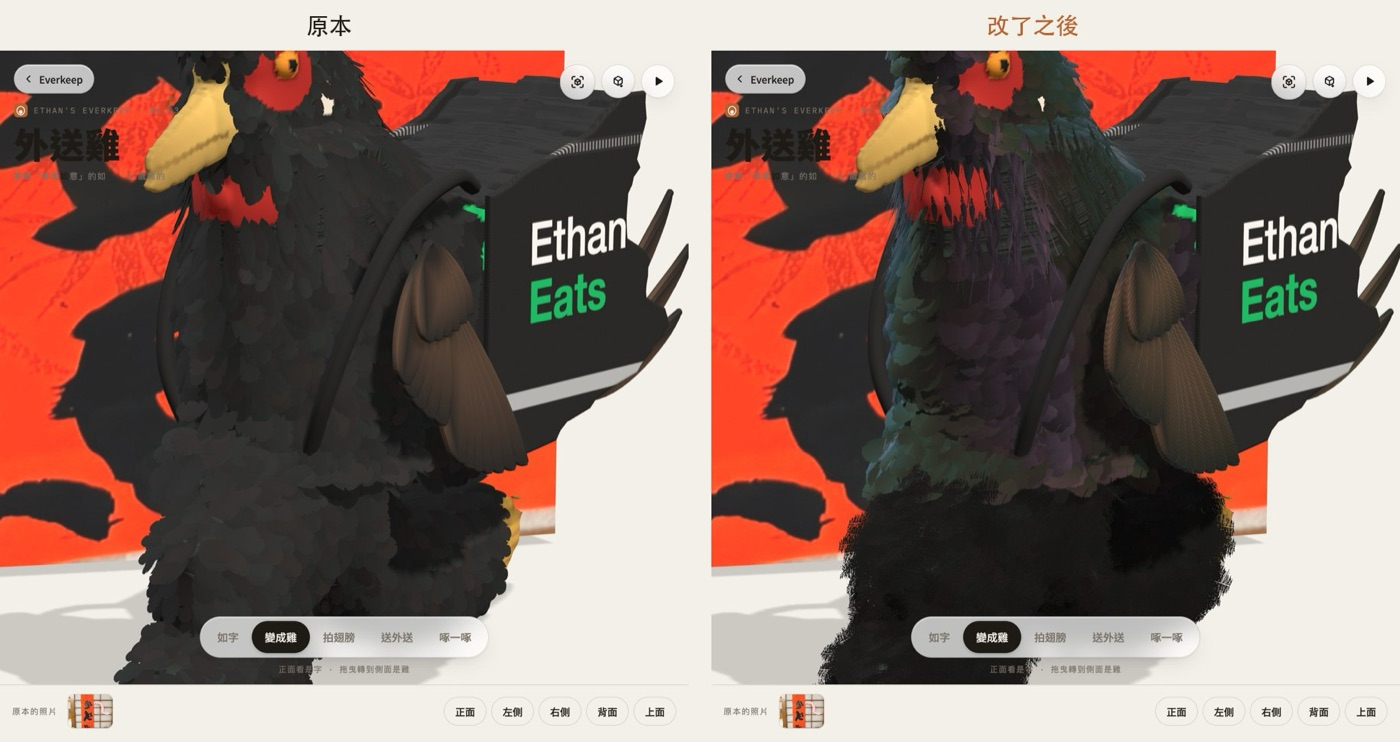
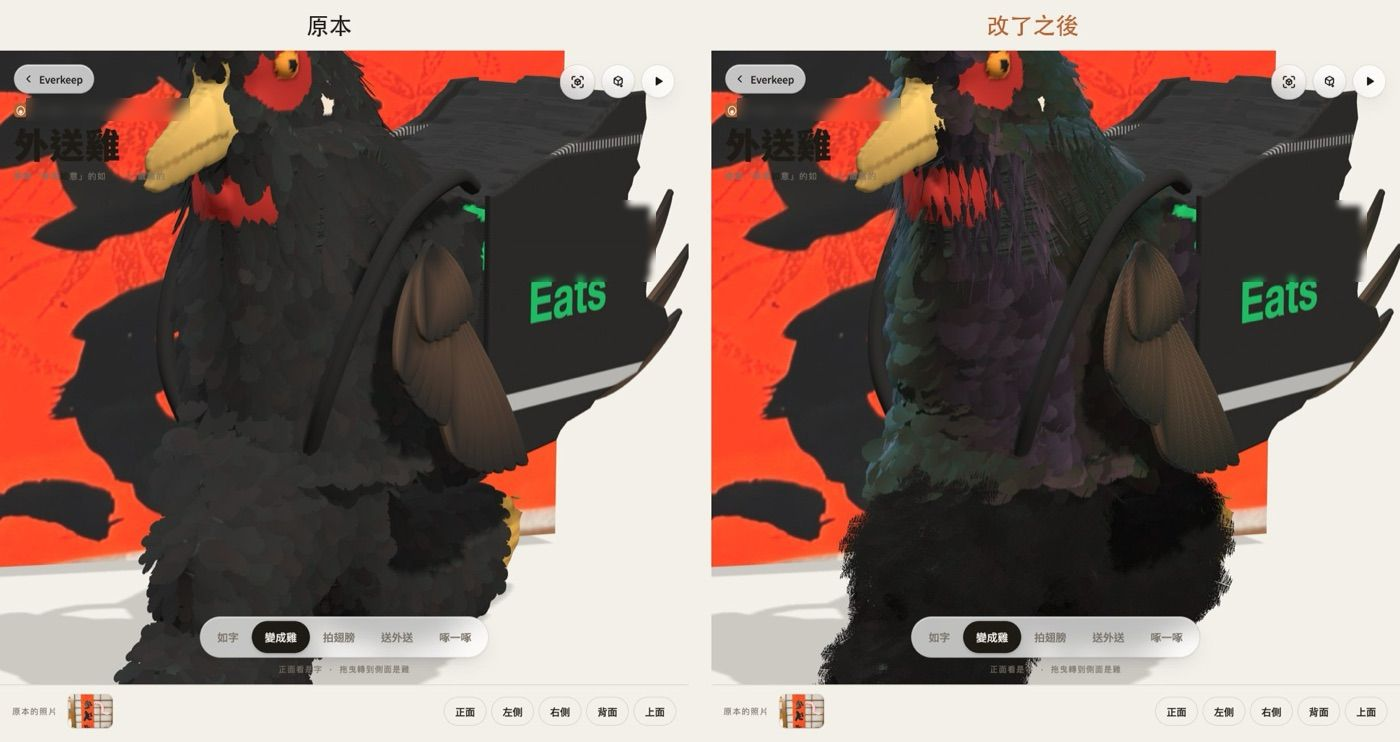
Everkeep 產品案例不寫具體人名：文字改成「小朋友」，截圖裡的名字遮掉
- 開頭、策略、決策 02 和作品集卡片的名字改成「小朋友」（英文 a child）
- 截圖：標題改成「小朋友的世界」、展品牌和作品頁標籤去掉名字、外送袋上的名字蓋掉、小標籤模糊
- 介紹影片的字幕和畫面有名字，開頭改放小島截圖；封面重拍

diff --git a/everkeep/case-study/index.html b/everkeep/case-study/index.html
@@ -6,7 +6,7 @@
 <link rel="canonical" href="https://aronlab.dev/everkeep/case-study/">
 <script>
   // 2026-11-14 Everkeep 產品案例，照 OneStroke 的做法放在 Aron Lab 底下（aronlab.dev/everkeep/case-study/）。
-  // 介紹影片直接用 Aron Lab 宣傳素材那支（assets/media/everkeep/），不另外放一份。
+  // 2026-11-14 Aron：案例裡不寫具體的人名，一律寫「小朋友」。截圖裡的名字已遮掉；介紹影片的字幕和畫面有名字，所以開頭改放小島截圖。
   // 同一份網站也部署在 GitHub Pages；從 north7.github.io 進來的訪客轉到正式網域，路徑保留
   if (location.hostname === 'north7.github.io') location.replace('https://aronlab.dev' + location.pathname + location.search + location.hash);
 </script>
@@ -270,7 +270,7 @@ td.res.no { color: var(--muted); font-family: var(--body); font-weight: 500; }
   <div class="txt">
     <div class="eyebrow">Case study · Everkeep</div>
     <h1 id="t">把孩子會壞掉的手作，留成一個<em>會長大的世界</em></h1>
-    <p class="lede">Ethan 4 到 6 歲做的黏土、陶土、春聯和紙火雞，會裂、會褪色、會被拆掉。我把它們照實物重建成可以轉、會動的 3D，放進一座小島和一間展覽室：孩子在島上玩，家人在展覽室收藏、分享。第一版只服務一個家庭，用來定下品質標準和體驗，之後才決定怎麼讓每個孩子上傳自己的作品。</p>
+    <p class="lede">家裡小朋友 4 到 6 歲做的黏土、陶土、春聯和紙火雞，會裂、會褪色、會被拆掉。我把它們照實物重建成可以轉、會動的 3D，放進一座小島和一間展覽室：孩子在島上玩，家人在展覽室收藏、分享。第一版只服務一個家庭，用來定下品質標準和體驗，之後才決定怎麼讓每個孩子上傳自己的作品。</p>
     <dl class="meta">
       <div><dt>角色</dt><dd>產品負責人：願景、策略、體驗與品質標準</dd></div>
       <div><dt>階段</dt><dd>已上線，單一家庭版本，7 件作品</dd></div>
@@ -280,9 +280,8 @@ td.res.no { color: var(--muted); font-family: var(--body); font-weight: 500; }
     <div class="cta"><a class="btn pri" href="https://everkeep.aronlab.dev/" target="_blank" rel="noopener">打開 Everkeep <span aria-hidden="true">↗</span></a></div>
   </div>
   <figure class="hv">
-    <div class="vwrap"><video id="heroVid" src="/assets/media/everkeep/intro.mp4" poster="/assets/media/everkeep/intro-poster.jpg" autoplay muted loop playsinline preload="metadata" aria-label="83 秒的產品介紹影片：照片變成 3D、小島、春聯上的字變成雞、天氣和節日、手機實際操作"></video>
-      <button class="snd" id="snd" type="button" aria-pressed="false"><svg viewBox="0 0 24 24" fill="none" stroke="currentColor" stroke-width="2" stroke-linecap="round" stroke-linejoin="round" aria-hidden="true"><path d="M11 5 6 9H3v6h3l5 4V5z"/><path class="w" d="M15.5 8.5a5 5 0 0 1 0 7M18.5 5.5a9 9 0 0 1 0 13"/></svg><span>開聲音</span></button></div>
-    <figcaption>介紹影片 83 秒，配樂是程式現場合成的音樂盒。</figcaption>
+    <div class="vwrap" style="aspect-ratio: 390 / 844"><img src="img/island.jpg" alt="小島：七件作品住在島上，旁邊是貼著春聯的小木屋" width="780" height="1688" style="width:100%;height:100%;object-fit:cover;display:block;border:0;border-radius:0"></div>
+    <figcaption>小島，手機上的實際畫面。</figcaption>
   </figure>
 </section>
 
@@ -336,7 +335,7 @@ td.res.no { color: var(--muted); font-family: var(--body); font-weight: 500; }
   <h2 id="h-strategy">先把<em>一個家庭</em>做到位，再談每個孩子</h2>
   <p>最終的目標是讓每個孩子上傳照片，就長出自己的世界。但在自動化之前，要先知道「好」長什麼樣子。我把路線拆成三段，每一段只回答一個問題，前一段的答案是後一段的規格。</p>
   <div class="road">
-    <div class="stage now"><div class="k">01 · 現在 <span class="pill">已上線</span></div><h3>Ethan's Everkeep</h3>
+    <div class="stage now"><div class="k">01 · 現在 <span class="pill">已上線</span></div><h3>第一個家庭的 Everkeep</h3>
       <dl><dt>問題</dt><dd>要做到什麼程度，家人才會說「這就是他做的那個」？</dd>
         <dt>做法</dt><dd>逐件照照片重建，把每一件做到最高標準，上線給家人用</dd>
         <dt>產出</dt><dd>品質標準、重建方法論、新增作品的固定流程、拍照指南</dd></dl></div>
@@ -399,7 +398,7 @@ td.res.no { color: var(--muted); font-family: var(--body); font-weight: 500; }
       <dt>決定</dt><dd>小島和展覽室都要，分成兩個畫面：小島給孩子，展覽室給收藏；在小島點作品，可以直接去它在展覽室的展台。分享連結預設開在展覽室。小星球留作品牌形象。</dd>
       <dt>結果</dt><dd class="out">一個產品同時服務兩種節奏，不用為了其中一邊犧牲另一邊。</dd></dl></article>
     <article class="dec"><div class="when">決策 02<h3>孩子的想像要怎麼做出來</h3></div><dl>
-      <dt>情境</dt><dd>Ethan 4 歲寫了一張春聯「事事如意」，家人覺得那個「如」字像一隻背著外送箱的雞。</dd>
+      <dt>情境</dt><dd>小朋友 4 歲寫了一張春聯「事事如意」，家人覺得那個「如」字像一隻背著外送箱的雞。</dd>
       <dt>決定</dt><dd>剪影必須和字一模一樣：平貼在春聯上就是字，按「出門」才鼓起來、長出羽毛、跳下紙。腳就用字原本的兩筆，不另外加一雙真的雞腳。春聯貼在島上小木屋的門上。</dd>
       <dt>結果</dt><dd class="out">這成了整個產品最讓人記得的一刻，也是介紹影片的主場景。從此的原則：孩子的想像就是內容，不是我們重新詮釋的素材。</dd></dl></article>
     <article class="dec"><div class="when">決策 03<h3>照片自動重建能不能直接用</h3></div><dl>
@@ -458,7 +457,7 @@ td.res.no { color: var(--muted); font-family: var(--body); font-weight: 500; }
 <section id="product" aria-labelledby="h-product">
   <div class="eyebrow">Product</div>
   <h2 id="h-product">做出來的產品</h2>
-  <p class="lede">以下都是手機上的實際畫面。</p>
+  <p class="lede">以下都是手機上的實際畫面，畫面裡的名字已經遮掉。</p>
   <div class="tour">
     <div class="tg">
       <div class="tgh"><span class="tn">01</span><div><h3>小島、展覽室、作品頁</h3><p class="muted">底部一條控制列切換兩個畫面；選了作品，控制列變成它的動作列。展覽室照年齡排，上方是成長時間軸。</p></div></div>
@@ -523,7 +522,7 @@ td.res.no { color: var(--muted); font-family: var(--body); font-weight: 500; }
     <li>找幾個家庭試拍，看一般家長照指南拍出可用素材的比例</li>
     <li>開放給其他家庭之前，先把孩子的照片、名字要怎麼保存和公開想清楚</li>
   </ul>
-  <div class="close"><div class="brand"><svg aria-hidden="true"><use href="#logo"/></svg><span>Everkeep</span></div><p class="muted">孩子做的東西，留下來，也活起來。</p><p class="muted">Aron · 產品負責人。本頁畫面都是產品實際截圖；線上版本在 everkeep.aronlab.dev。</p></div>
+  <div class="close"><div class="brand"><svg aria-hidden="true"><use href="#logo"/></svg><span>Everkeep</span></div><p class="muted">孩子做的東西，留下來，也活起來。</p><p class="muted">Aron · 產品負責人。本頁畫面都是產品實際截圖（名字已遮掉）；線上版本在 everkeep.aronlab.dev。</p></div>
 </section>
 
 </main>
@@ -538,18 +537,6 @@ td.res.no { color: var(--muted); font-family: var(--body); font-weight: 500; }
 </div>
 
 <script>
-(() => {   // 主視覺影片：靜音自動播放；「開聲音」從頭播並打開聲音，再按一次靜音
-  const v = document.getElementById("heroVid"), b = document.getElementById("snd");
-  if (!v || !b) return;
-  const lab = b.querySelector("span");
-  const sync = () => { const on = !v.muted && !v.paused; b.setAttribute("aria-pressed", on); lab.textContent = on ? "靜音" : "開聲音"; };
-  b.addEventListener("click", () => {
-    if (v.muted) { v.muted = false; v.currentTime = 0; v.play().catch(() => {}); } else { v.muted = true; }
-    sync();
-  });
-  if (matchMedia("(prefers-reduced-motion: reduce)").matches) { v.removeAttribute("autoplay"); v.pause(); }
-})();
-
 (() => {   // 目錄：目前章節標一條陶土橘；手機版右下角圓環顯示讀到哪
   const links = [...document.querySelectorAll("nav.toc a[href^='#']")];
   const secs = links.map(a => document.querySelector(a.getAttribute("href")));

diff --git a/data/lab.js b/data/lab.js
@@ -504,7 +504,7 @@ window.LAB = {
       id: 'everkeep-case', product: 'everkeep',
       title: '把孩子會壞掉的手作，留成一個會長大的世界',
       sub: 'Everkeep 產品案例',
-      desc: '黏土會裂、紙會褪色、作品會被拆掉。我把 Ethan 的手作照實物重建成可以轉、會動的 3D，先把一個家庭做到位、定下品質標準，再決定怎麼讓每個孩子上傳自己的作品。',
+      desc: '黏土會裂、紙會褪色、作品會被拆掉。我把小朋友的手作照實物重建成可以轉、會動的 3D，先把一個家庭做到位、定下品質標準，再決定怎麼讓每個孩子上傳自己的作品。',
       meta: [['角色', '產品負責人（願景、策略、體驗與品質標準）'], ['階段', '已上線 · 單一家庭版本 · 7 件作品'], ['形態', '手機網頁、3D、AR、3D 列印檔']],
       url: 'https://aronlab.dev/everkeep/case-study/',
       cover: 'assets/covers/everkeep-case.jpg',
@@ -515,7 +515,7 @@ window.LAB = {
       en: {
         title: "Keeping a child's fragile crafts as a world that grows",
         sub: 'Everkeep case study',
-        desc: "Clay cracks, paper fades and crafts get taken apart. I rebuilt Ethan's handmade pieces in 3D from photos so they can turn and move, got one family's version right and set the quality bar first, before deciding how every child could upload their own.",
+        desc: "Clay cracks, paper fades and crafts get taken apart. I rebuilt a child's handmade pieces in 3D from photos so they can turn and move, got one family's version right and set the quality bar first, before deciding how every child could upload their own.",
         meta: [['Role', 'Product owner (vision, strategy, experience and quality bar)'], ['Stage', 'Live · one-family version · 7 pieces'], ['Form', 'Mobile web, 3D, AR, 3D-print files']],
         go: 'Read (Chinese)',
         chapters: [
